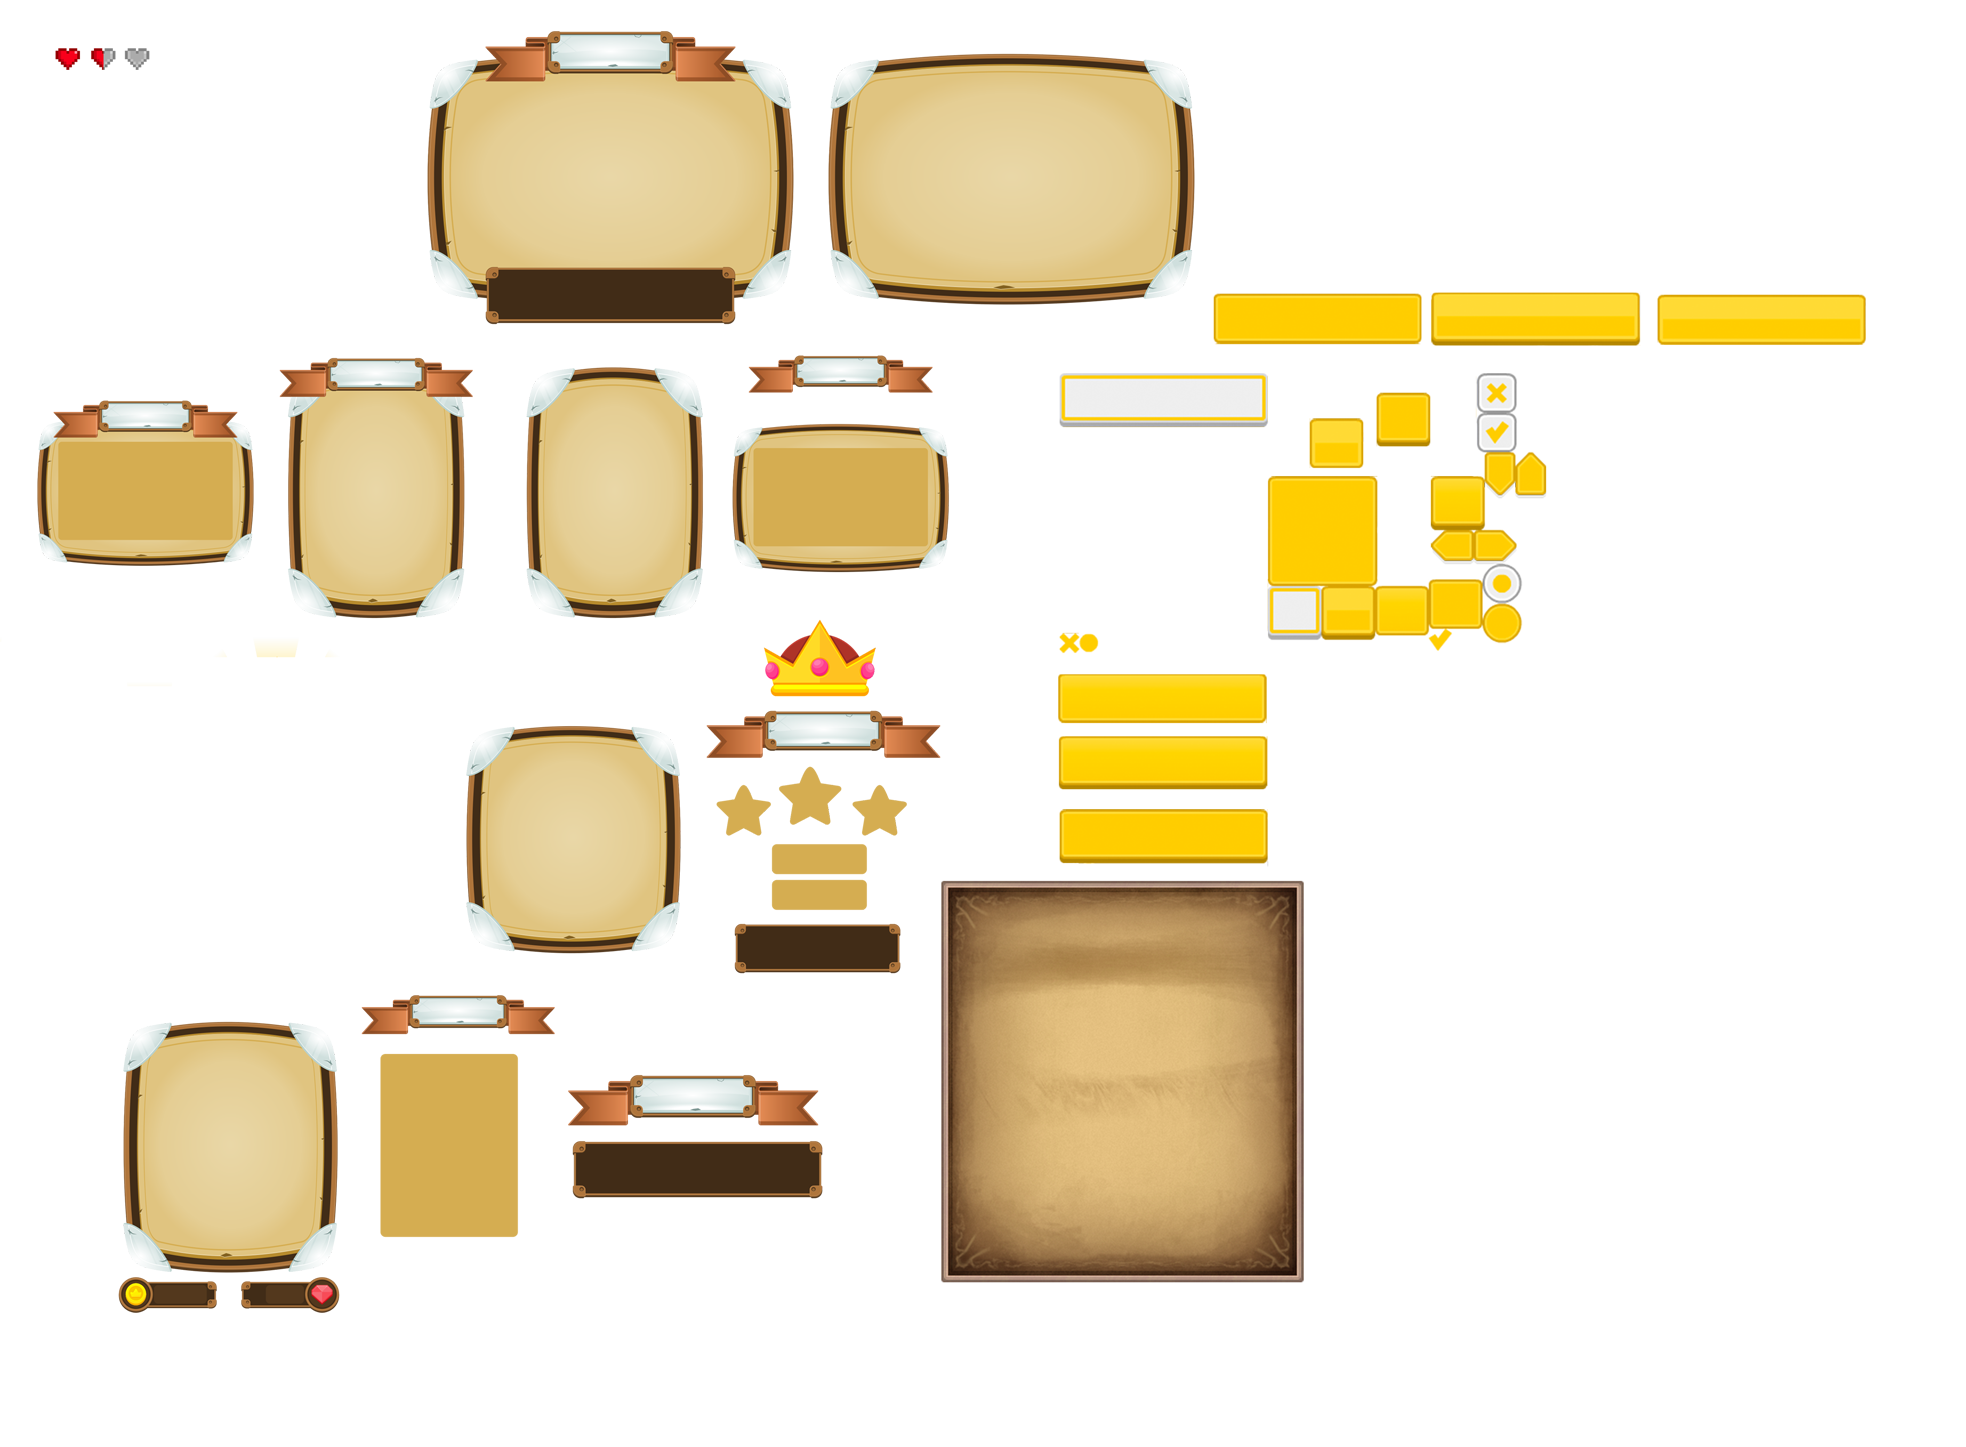
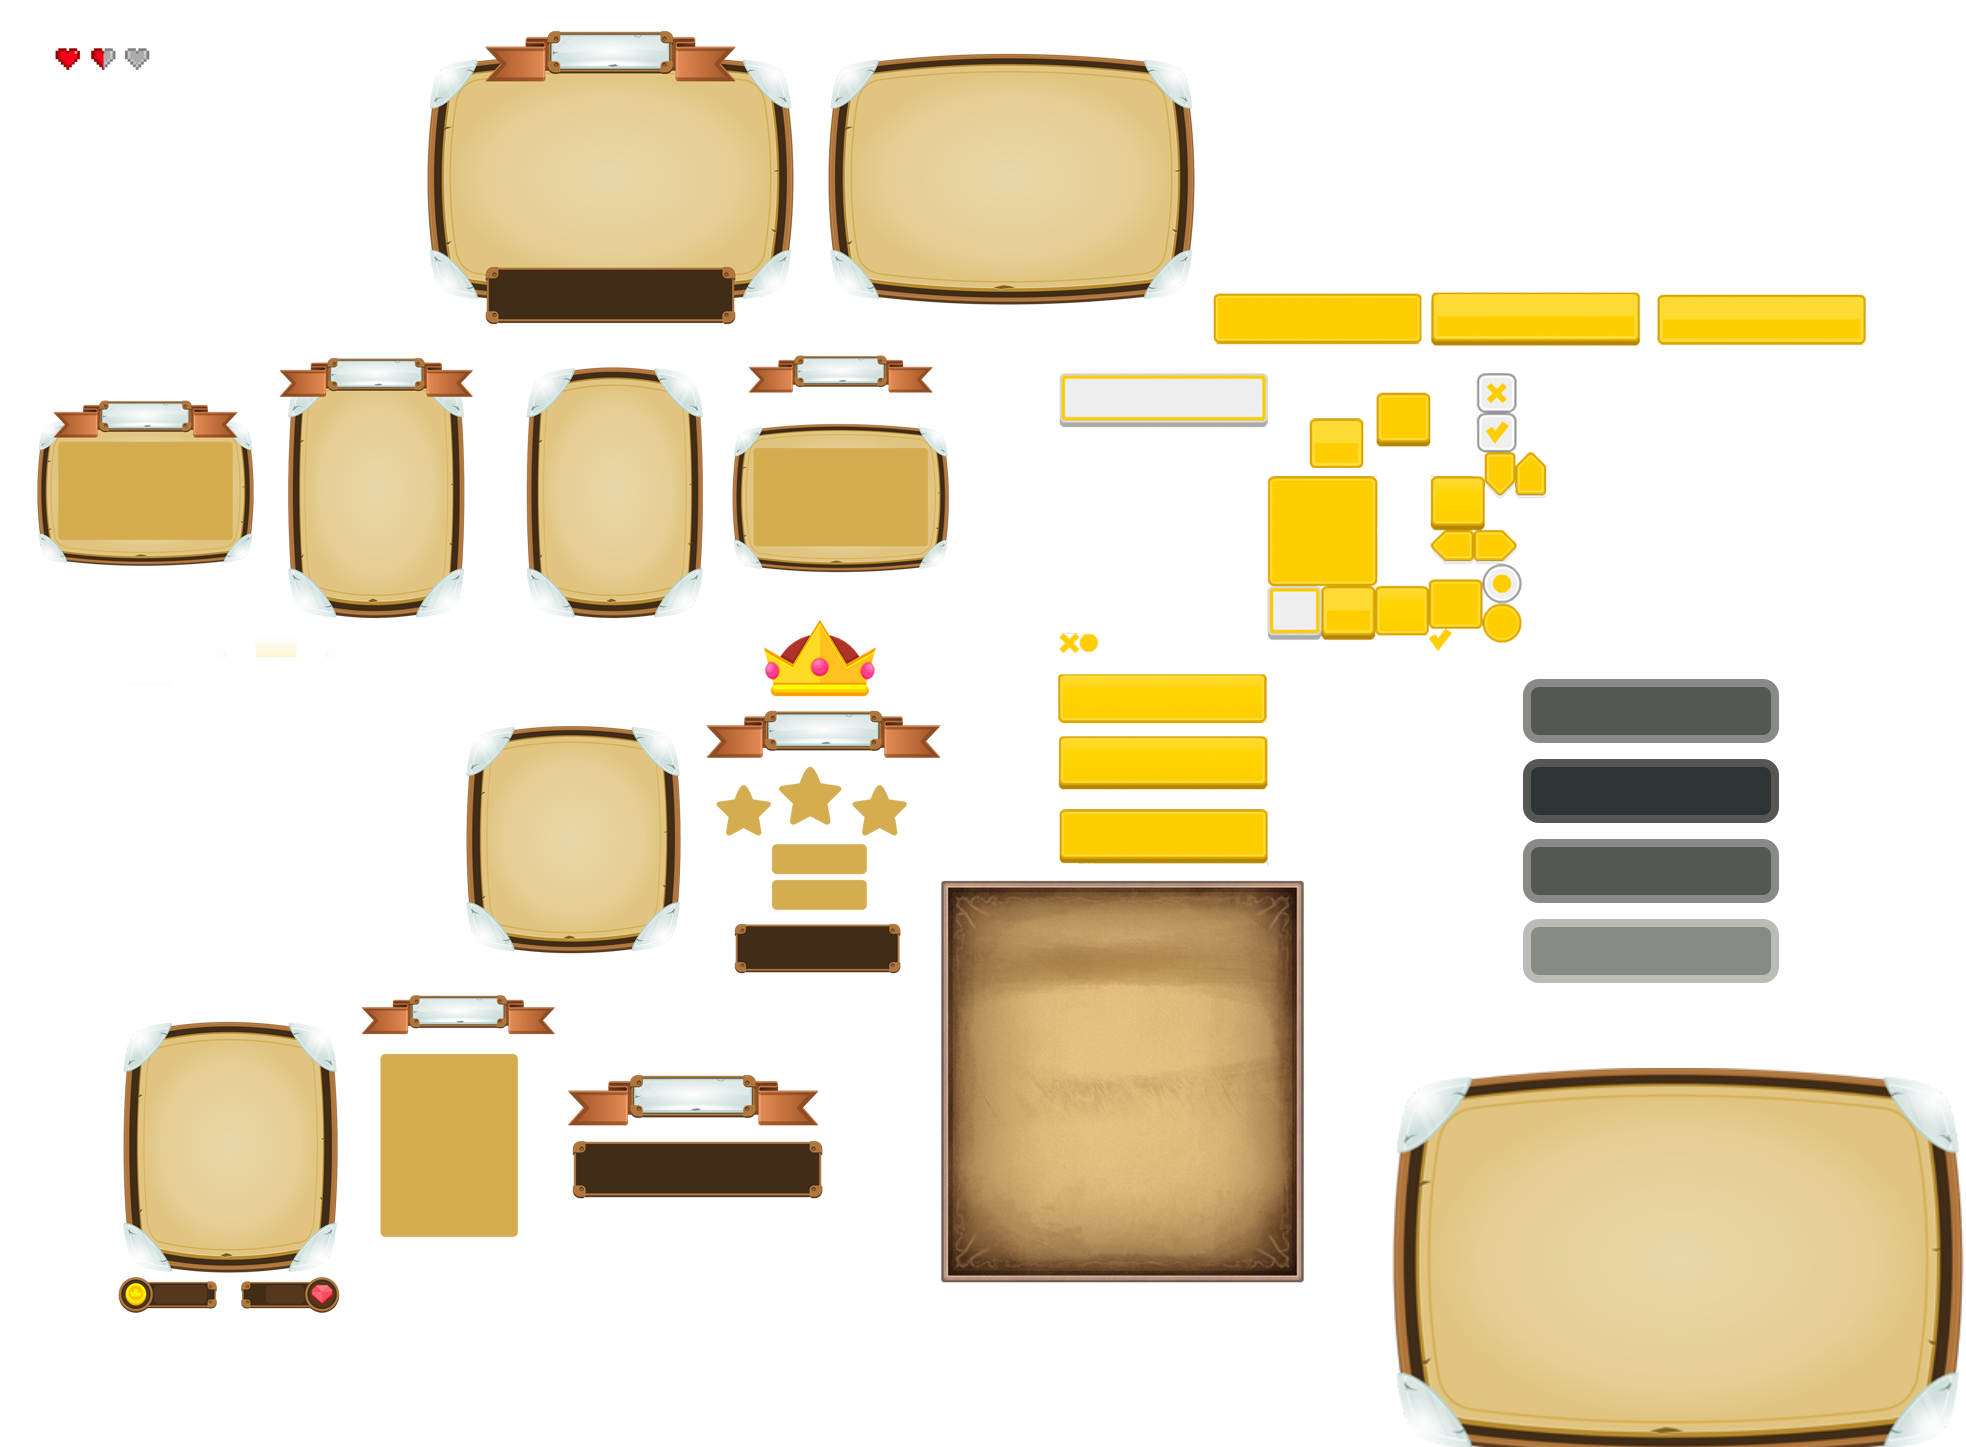
Main Menu button play

Changed region(s): [[0.6826, 0.7153, 1.0, 1.0], [0.7757, 0.4665, 0.9308, 0.6842]]

diff --git a/Game-Exercise/Motor2D/MainMenu.cpp b/Game-Exercise/Motor2D/MainMenu.cpp
@@ -16,6 +16,7 @@
 #include "j1Fonts.h"
 #include "Brofiler\Brofiler.h"
 #include "Entity_Player.h"
+#include "j1Scene.h"
 
 #include "GUI_Button.h"
 
@@ -40,8 +41,8 @@ bool MainMenu::Awake()
 // Called before the first frame
 bool MainMenu::Start()
 {
-	background = App->gui->AddImage(0, 0, {941,881,362,401});
-	btn_play = App->gui->AddButton(10, 10, { 1213,293,209,52 }, { 1431,293,209,52 }, { 1657,293,209,52 });
+	//background = App->gui->AddImage(0, 0, {1385,881,362,401});
+	btn_play = App->gui->AddButton(App->win->width/2 -128, App->win->height/2, { 1523,919,256,64 } , { 1523,679,256,64 }, { 1523,759,256,64 });
 	return true;
 }
 
@@ -99,6 +100,8 @@ void MainMenu::MouseIn(GUI* element)
 			{
 
 				ex2->setAnimation(3);
+
+				Interact(element);
 			}
 		}
 		else
@@ -106,4 +109,20 @@ void MainMenu::MouseIn(GUI* element)
 			ex2->setAnimation(1);
 		}
 	}
+	if(App->input->GetMouseButtonDown(SDL_BUTTON_LEFT) == KEY_UP)
+	{ }
+}
+
+void MainMenu::Interact(GUI* g)
+{
+	if (g->type == BUTTON)
+	{
+		App->fade_to_black->FadeToBlack(this,App->scene, 3.0f);
+		App->scene->active = true;
+		App->scene->Start();
+		
+		this->active = false;
+		delete g;
+	}
+	
 }

diff --git a/Game-Exercise/Motor2D/j1Scene.cpp b/Game-Exercise/Motor2D/j1Scene.cpp
@@ -56,6 +56,7 @@ bool j1Scene::Start()
 	}
 	App->audio->PlayMusic(App->audio->path.GetString());
 	App->audio->StartVolume(App->audio->volume);
+	App->map->Spawn();
 	return true;
 }
 

diff --git a/Game-Exercise/Motor2D/MainMenu.h b/Game-Exercise/Motor2D/MainMenu.h
@@ -37,7 +37,7 @@ public:
 	bool CleanUp();
 
 	void MouseIn(GUI* button);
-
+	void Interact(GUI* g);
 private:
 	bool is_faded = false;
 	bool change_map = false;

diff --git a/Game-Exercise/Motor2D/j1Entities.cpp b/Game-Exercise/Motor2D/j1Entities.cpp
@@ -38,7 +38,7 @@ bool j1Entities::Awake(pugi::xml_node& config)
 bool j1Entities::Start()
 {
 	bool ret = true;
-	App->map->Spawn();
+
 
 	return ret;
 }
